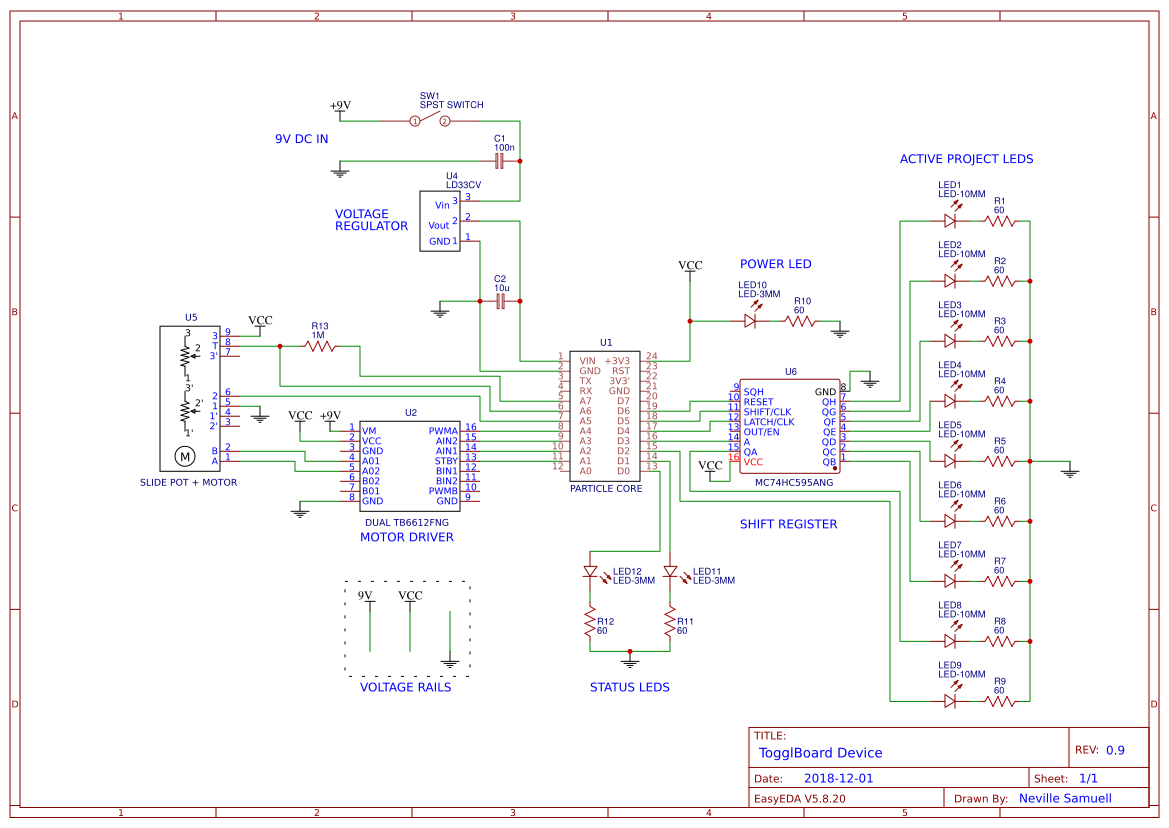
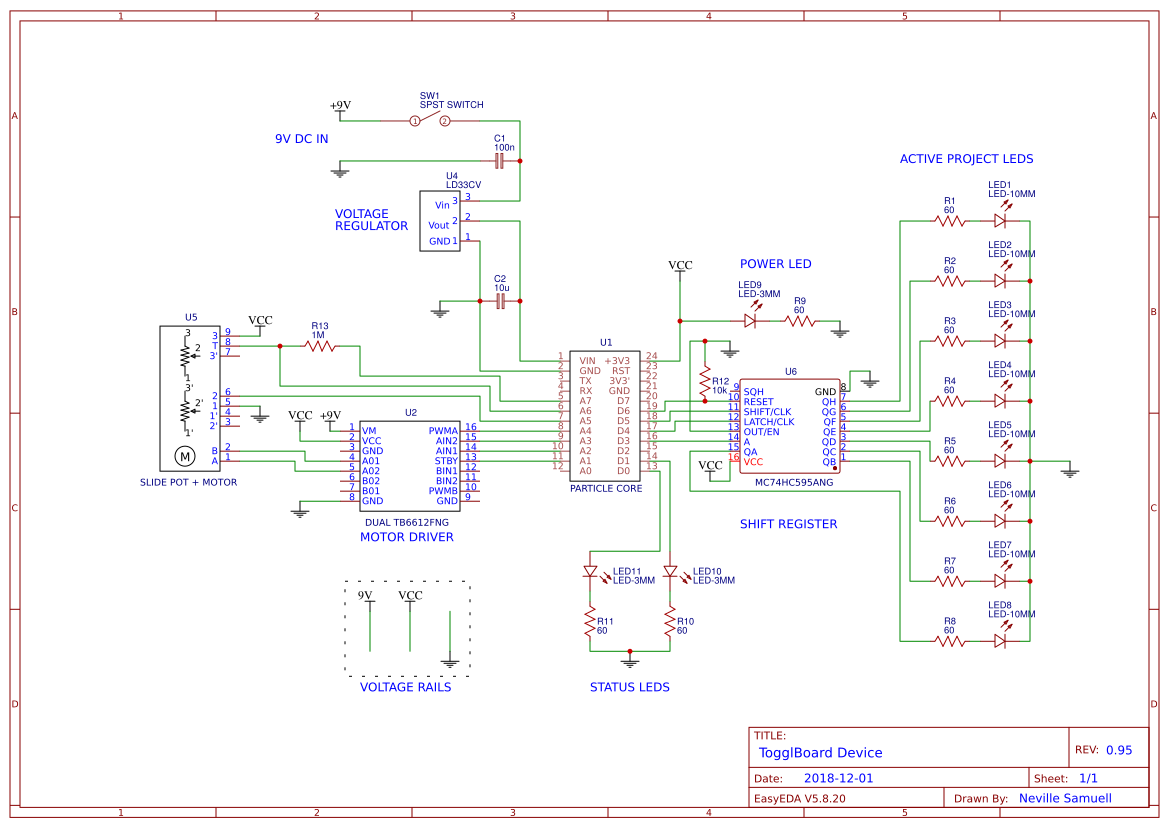
Calibrate controller gains & update schematic

diff --git a/device/README.md b/device/README.md
@@ -16,12 +16,13 @@ This folder contains the design files for the TogglBoard Device with the physica
 | U5         | SLIDE POT + MOTOR | 1        |
 | U6         | MC74HC595ANG      | 1        |
 | SW1        | SPST SWITCH       | 1        |
-| LED1-9     | LED-10MM          | 9        |
-| LED10-12   | LED-3MM           | 3        |
-| R1-12      | 60                | 12       |
+| LED1-8     | LED-10MM          | 8        |
+| LED9-11    | LED-3MM           | 3        |
+| R1-11      | 60                | 11       |
+| R12        | 10k               | 1        |
+| R13        | 1M                | 1        |
 | C1         | 100n              | 1        |
 | C2         | 10u               | 1        |
-| R13        | 1M                | 1        |
 
 ## Microcontroller Code
 
